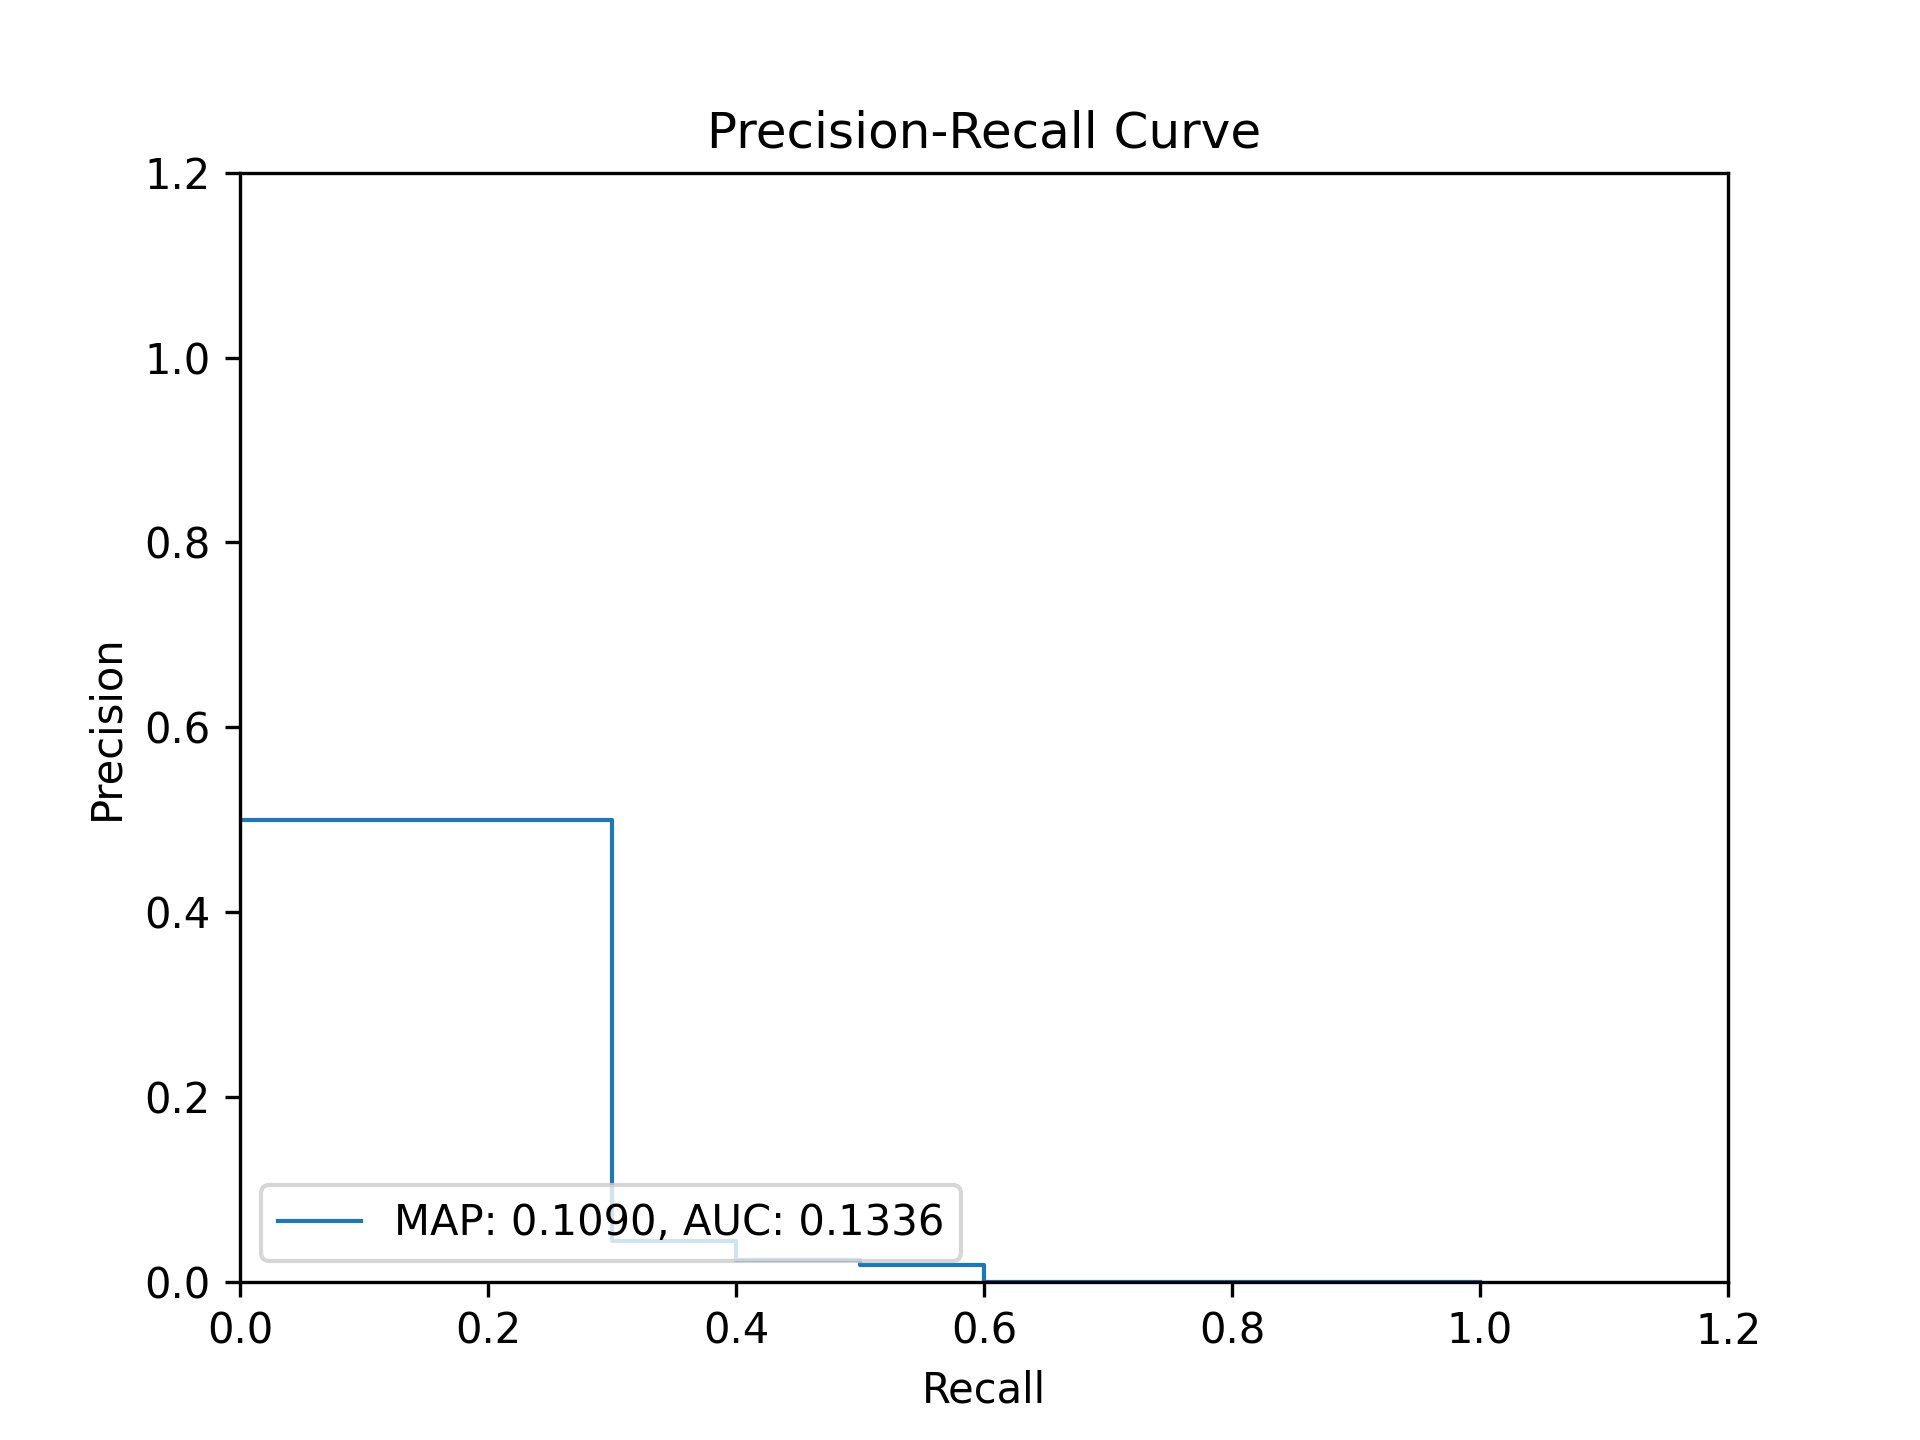
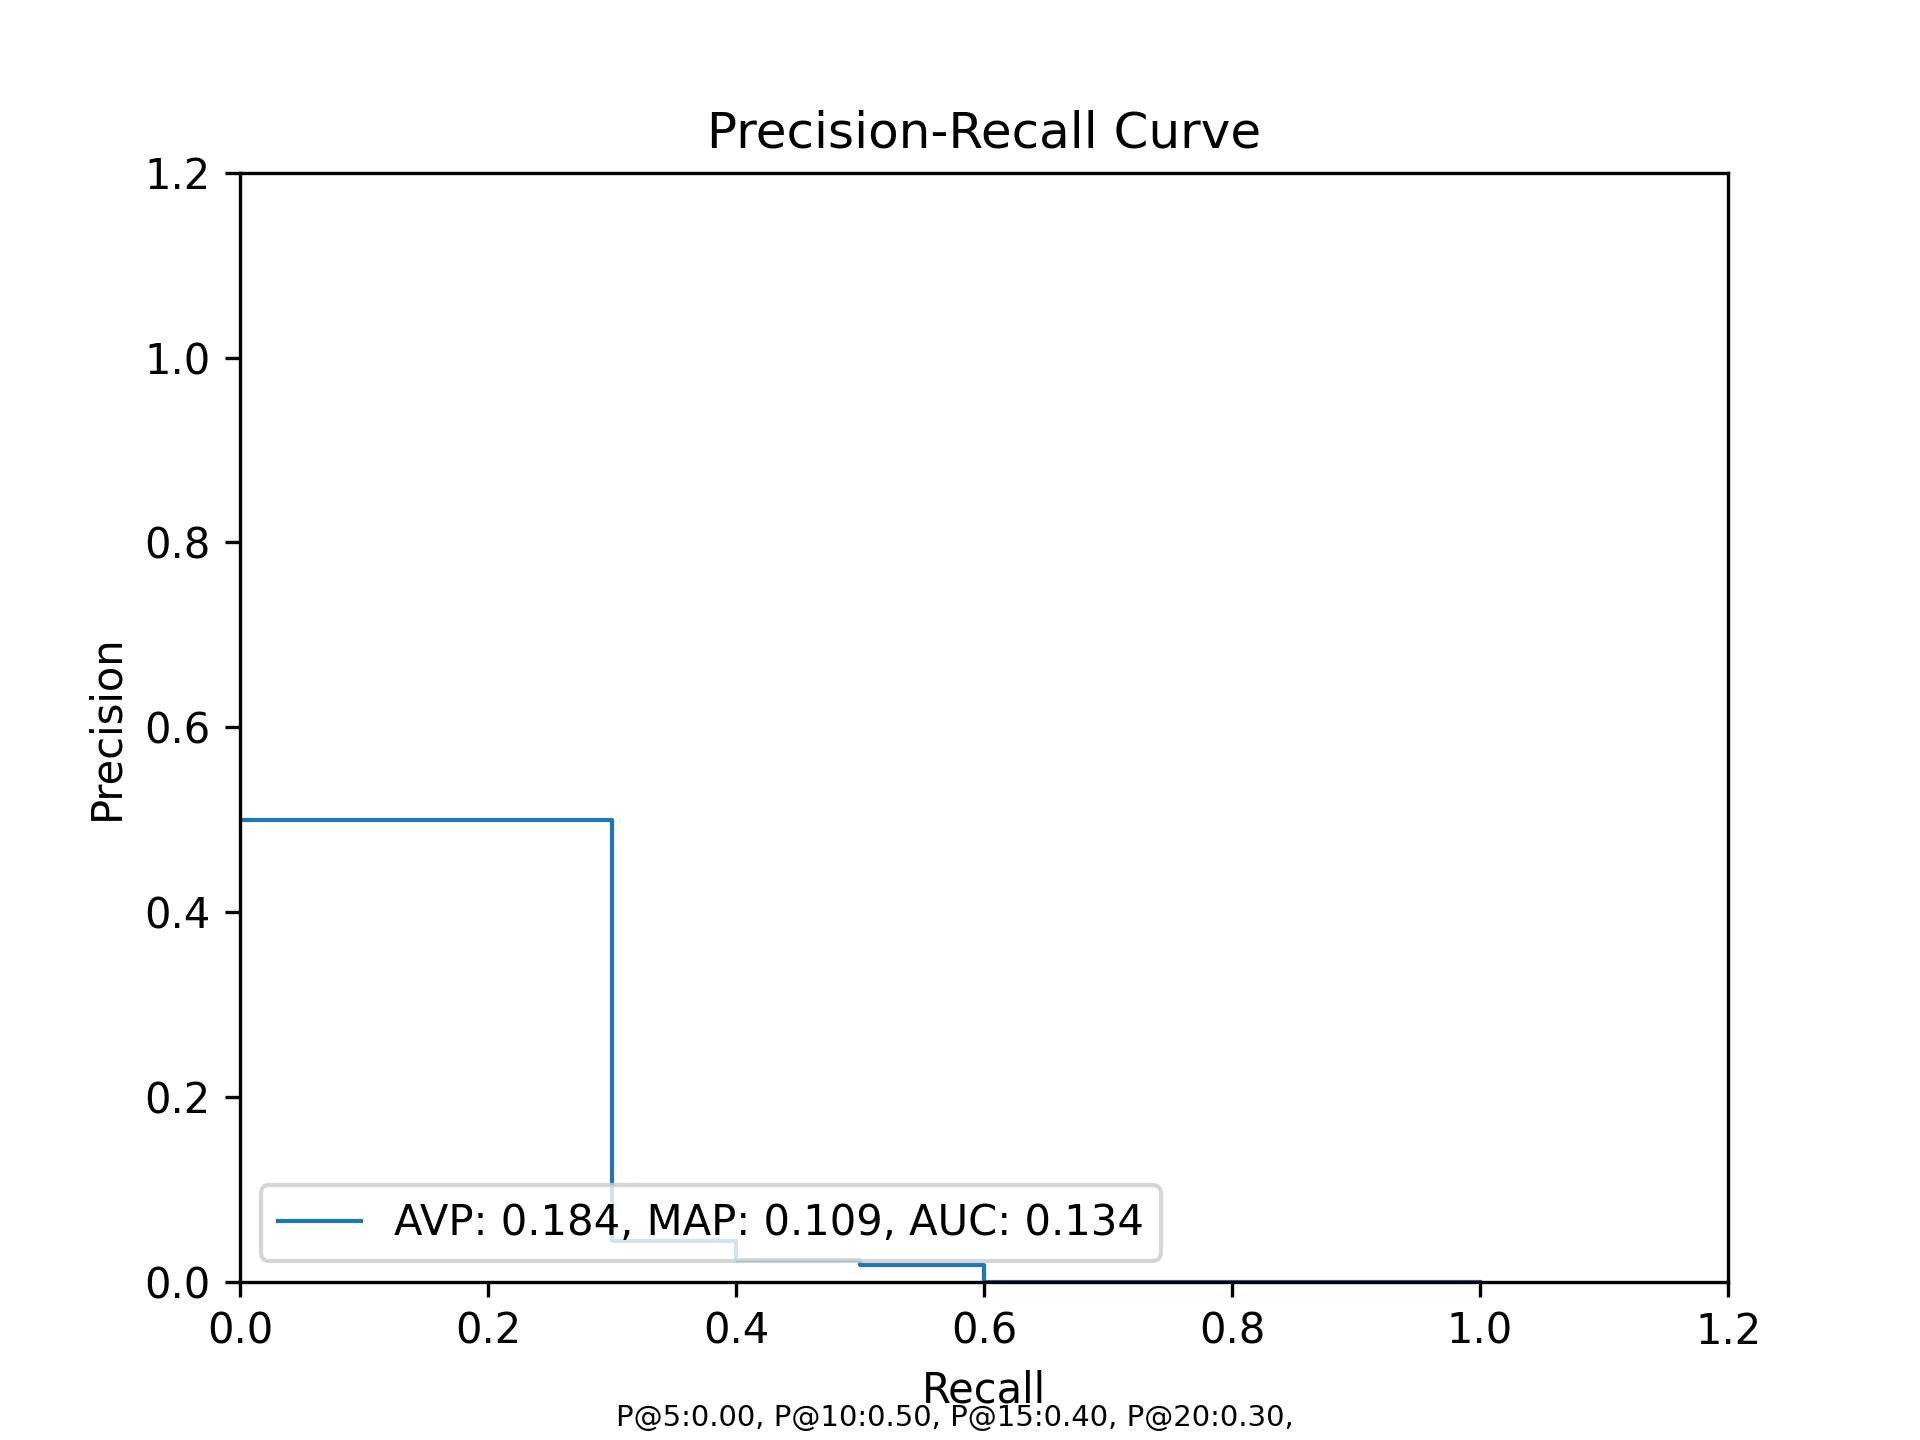
Added stats to plots.

Changed region(s): [[0.2188, 0.8125, 0.5938, 0.875], [0.3125, 0.9688, 0.6562, 1.0]]

diff --git a/scripts/plot_pr.py b/scripts/plot_pr.py
@@ -38,12 +38,14 @@ def main(qrels_file: str, output_file: str):
     recall = []
     relevant_ranks = []  # To hold precision values at ranks where relevant documents are retrieved
     relevant_count = 0
+    relevant_docs = []
 
     for i in range(1, len(y_pred) + 1):
         # Check how many predicted documents so far are relevant
         if y_pred[i - 1] in y_true:
             relevant_count += 1
             relevant_ranks.append(relevant_count / i)  # Precision at this rank (relevant document)
+            relevant_docs.append(i - 1)
 
         # Precision: relevant docs so far / total docs retrieved so far
         precision.append(relevant_count / i)
@@ -64,14 +66,21 @@ def main(qrels_file: str, output_file: str):
     # Compute the Area Under Curve (AUC) for the precision-recall curve
     auc_score = np.trapz(interpolated_precision, recall_levels)
 
+    # Compute AVP (Average Precision)
+    avp_score = sum(map(lambda idx: precision[idx], relevant_docs)) / len(relevant_docs)
+
     # Plot the 11-point interpolated precision-recall curve
+    precisions_at_n = ""
+    for n in (5, 10, 15, 20):
+        precisions_at_n += f"P@{n}:{precision[n - 1]:.2f}, "
     plt.plot(
         recall_levels,
         interpolated_precision,
         drawstyle="steps-post",
-        label=f"MAP: {map_score:.4f}, AUC: {auc_score:.4f}",
+        label=f"AVP: {avp_score:.3f}, MAP: {map_score:.3f}, AUC: {auc_score:.3f}",
         linewidth=1,
     )
+    plt.figtext(0.5, 0.01, precisions_at_n, wrap=True, horizontalalignment='center', fontsize=7)
 
     # Customize plot appearance
     plt.xlabel("Recall")
